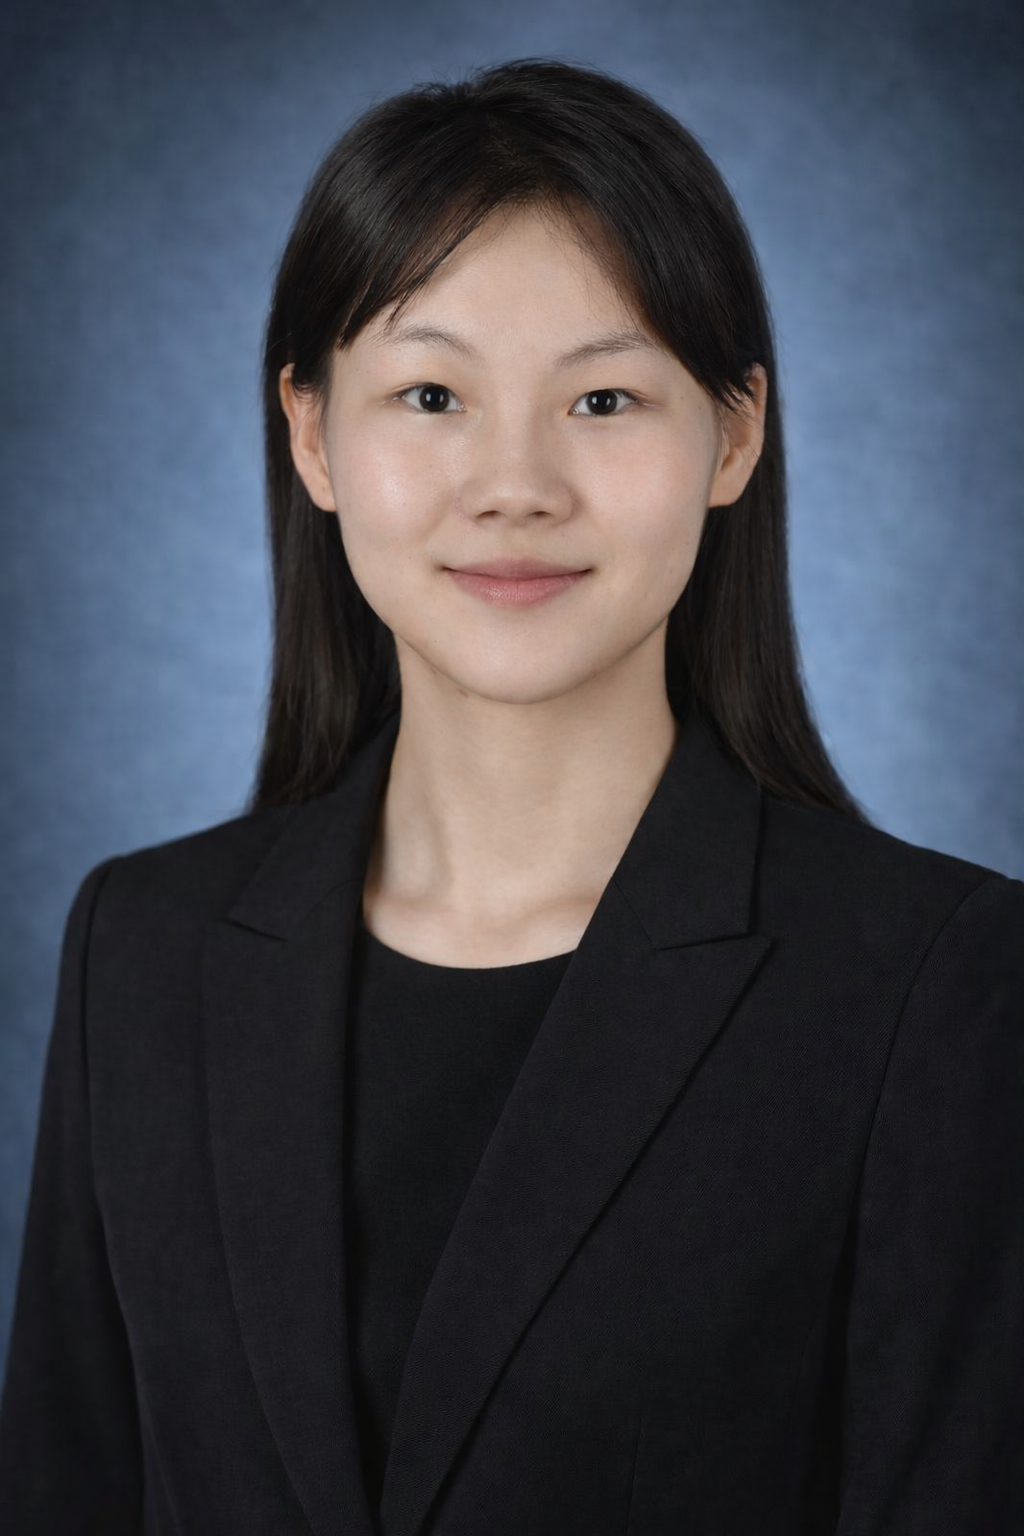
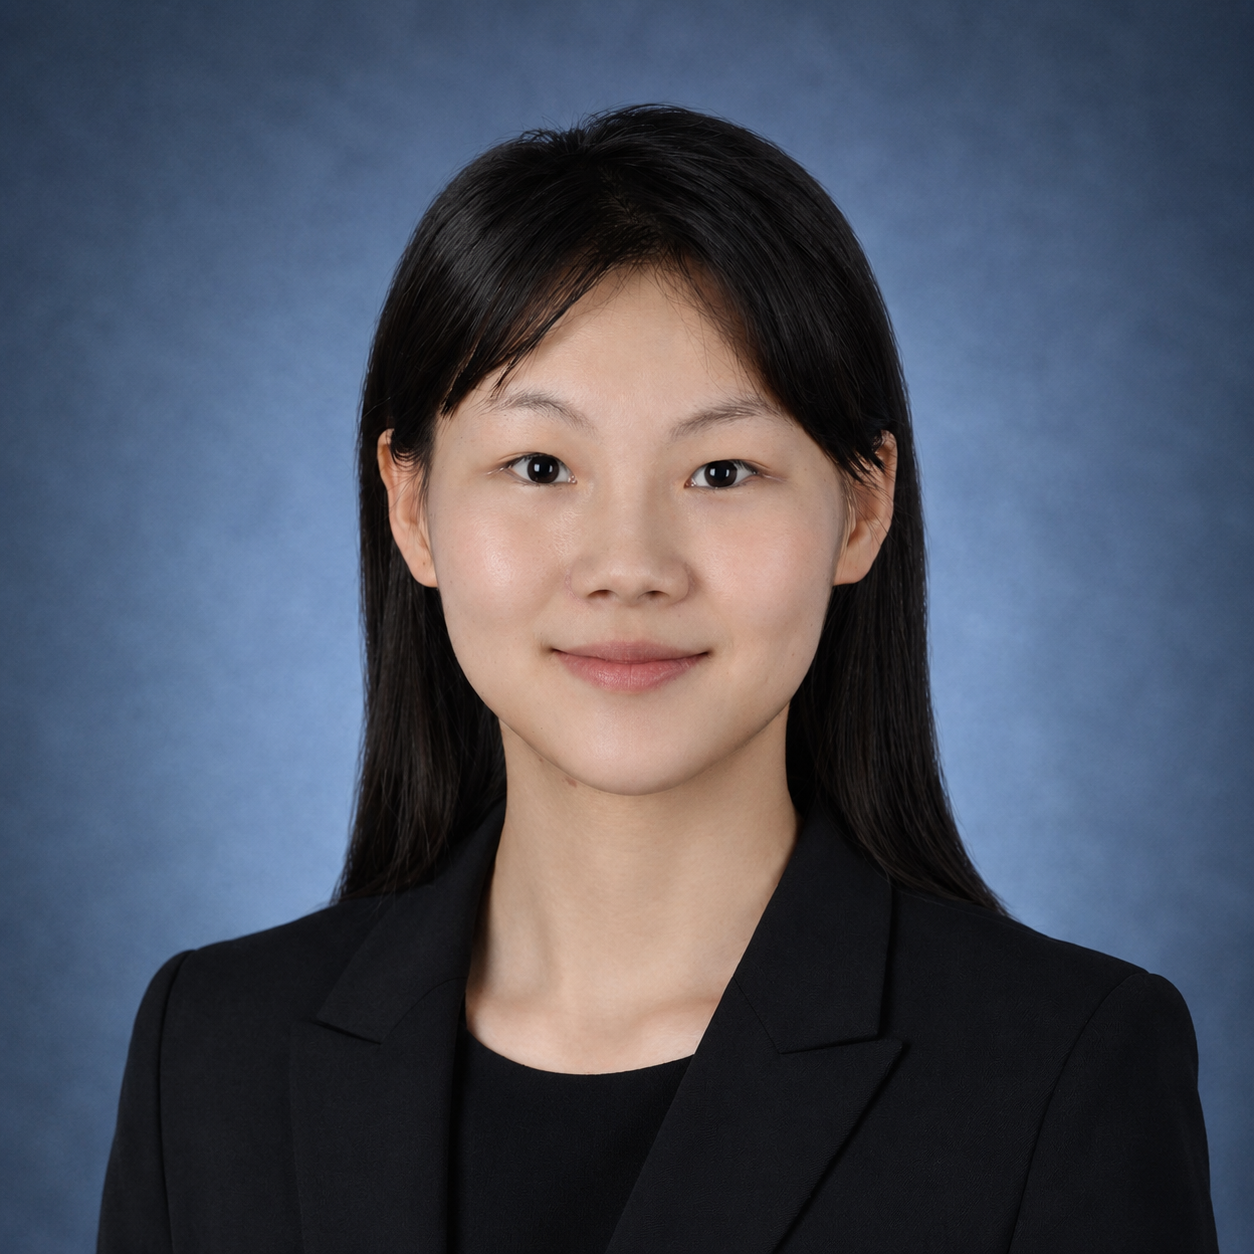
Some minor changes

diff --git a/src/index.html b/src/index.html
@@ -144,7 +144,7 @@
           </p>
         </div>
         <a
-          href="https://github.com/CommunityPro/portfolio-html"
+          href="huijie002@gmail.com"
           class="btn btn-secondary"
           target="_blank"
           >Connect With Me</a
@@ -171,7 +171,7 @@
 
             <div class="project-link">
               <a href="https://greenbreeze.me/" target="_blank">greenbreeze.com</a>
-              <a href="#" target="_blank"><i class="fas fa-globe"></i></a>
+              <a href="https://greenbreeze.me/" target="_blank"><i class="fas fa-globe"></i></a>
             </div>
           </div>
         </div>
